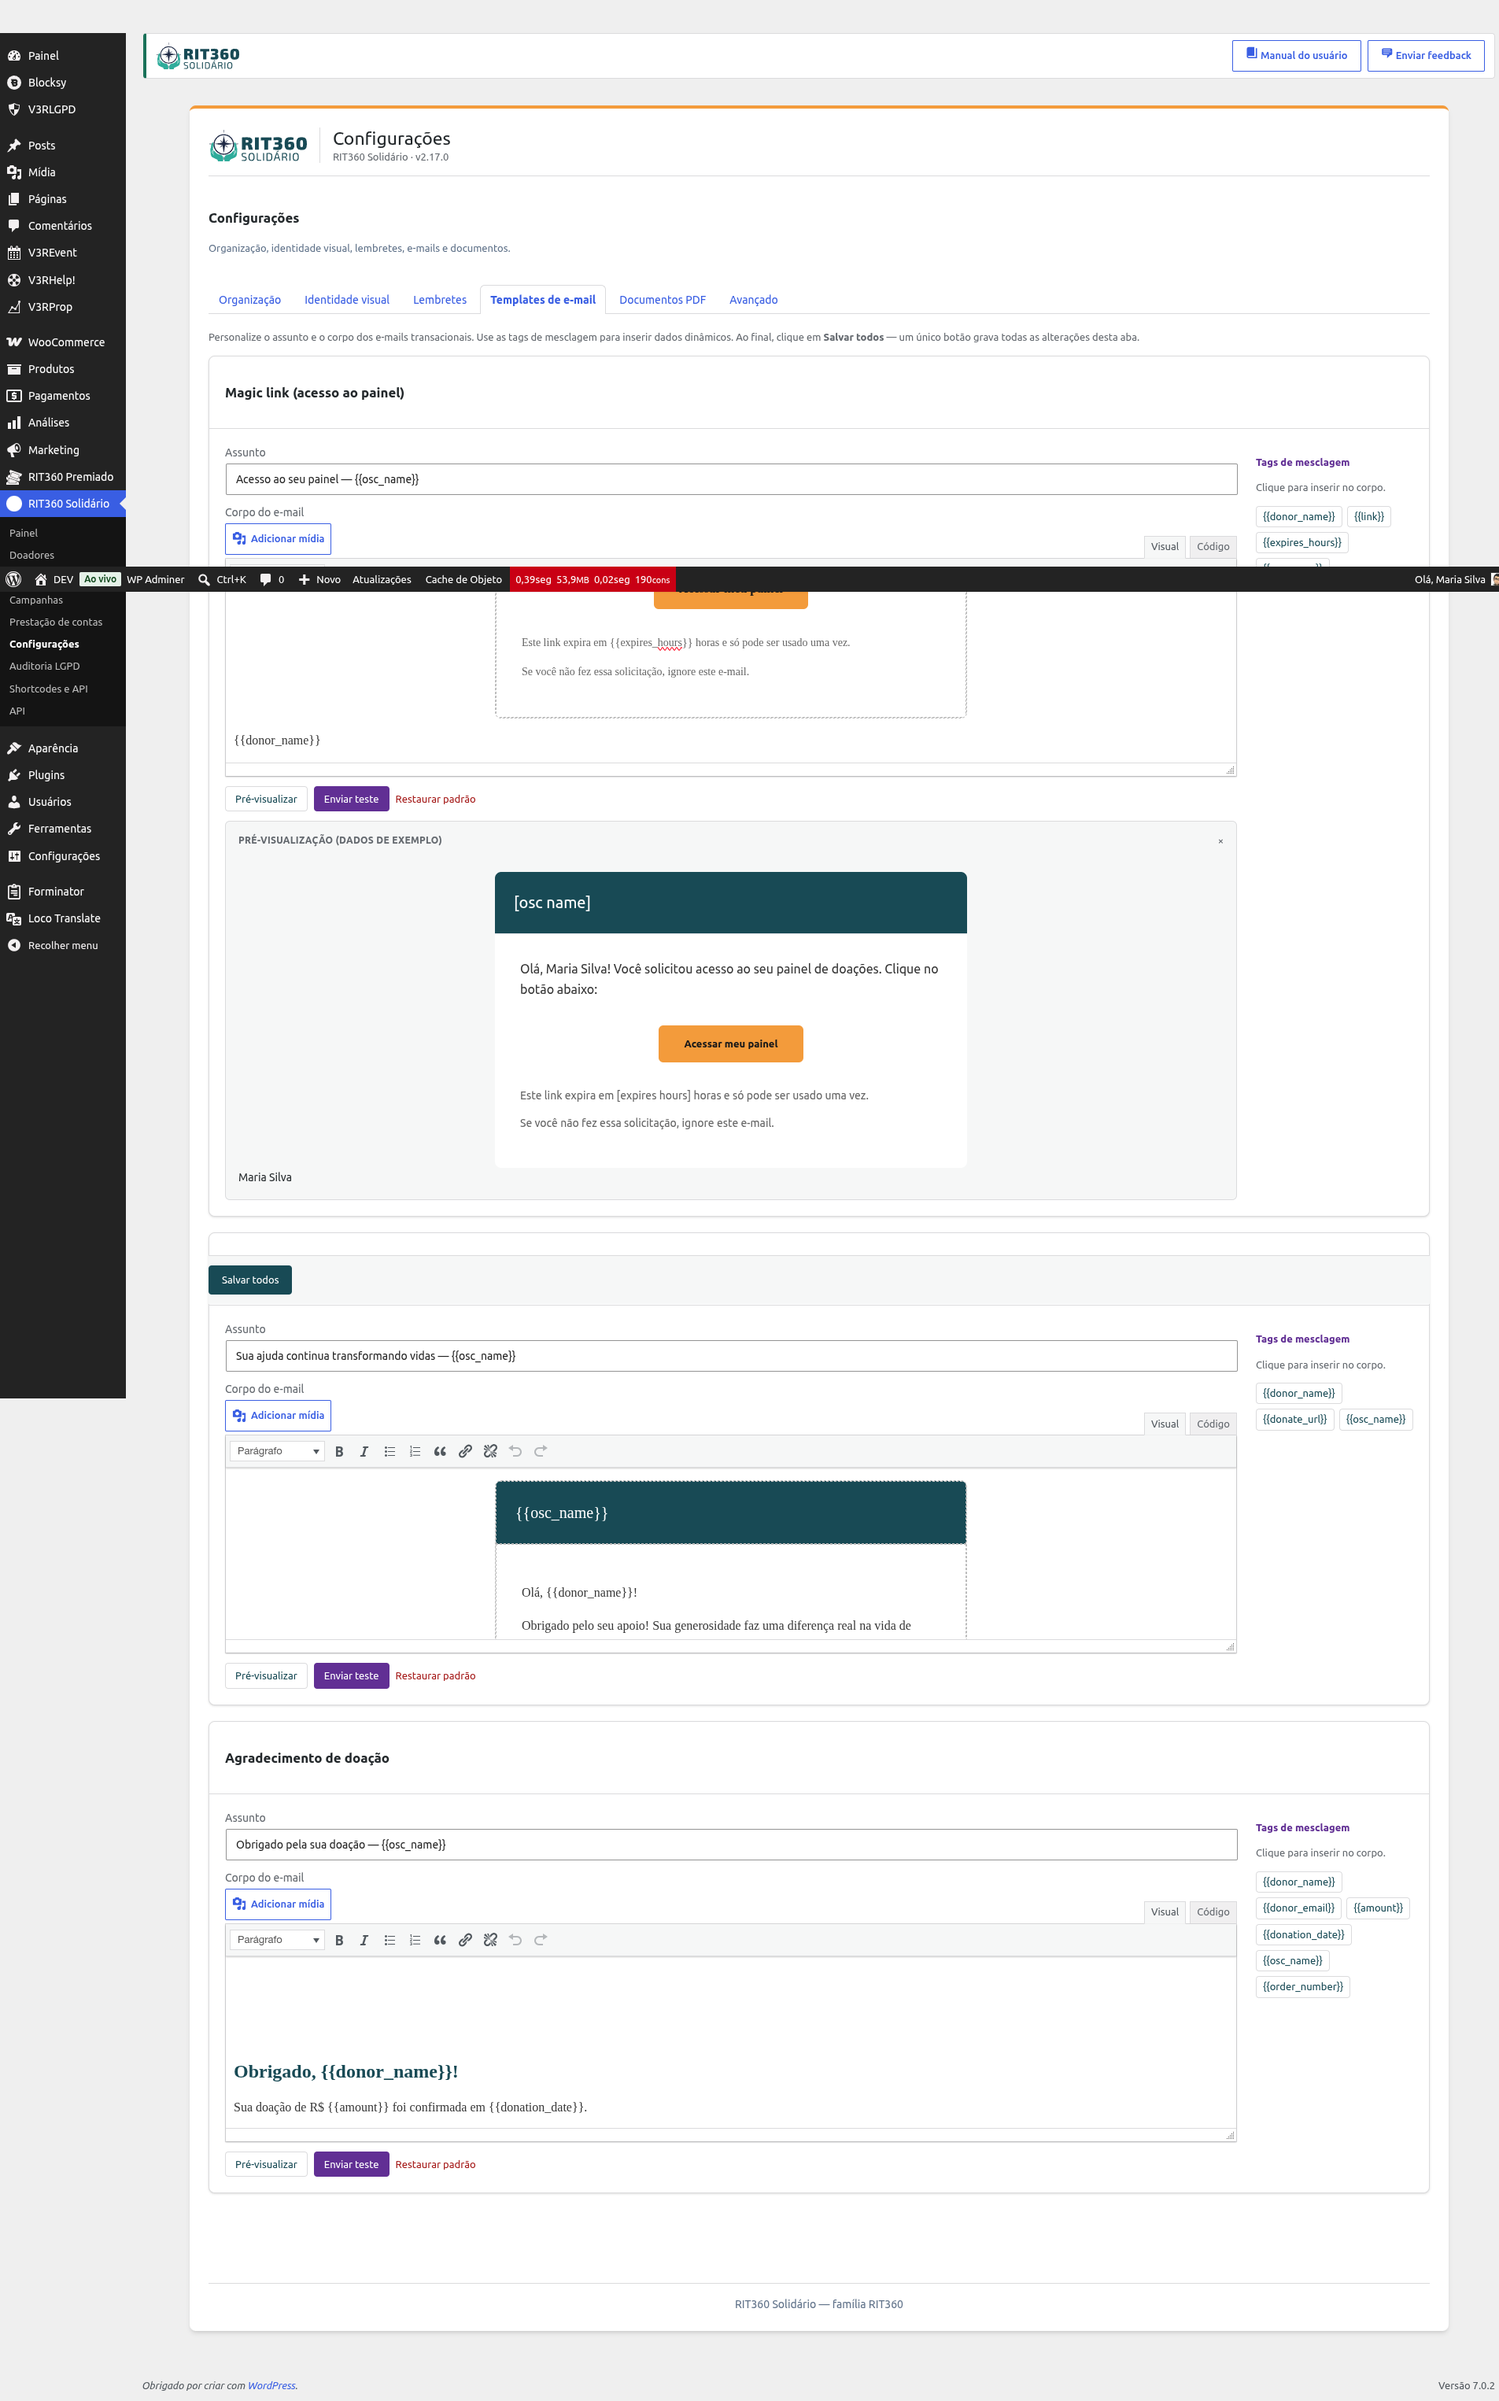
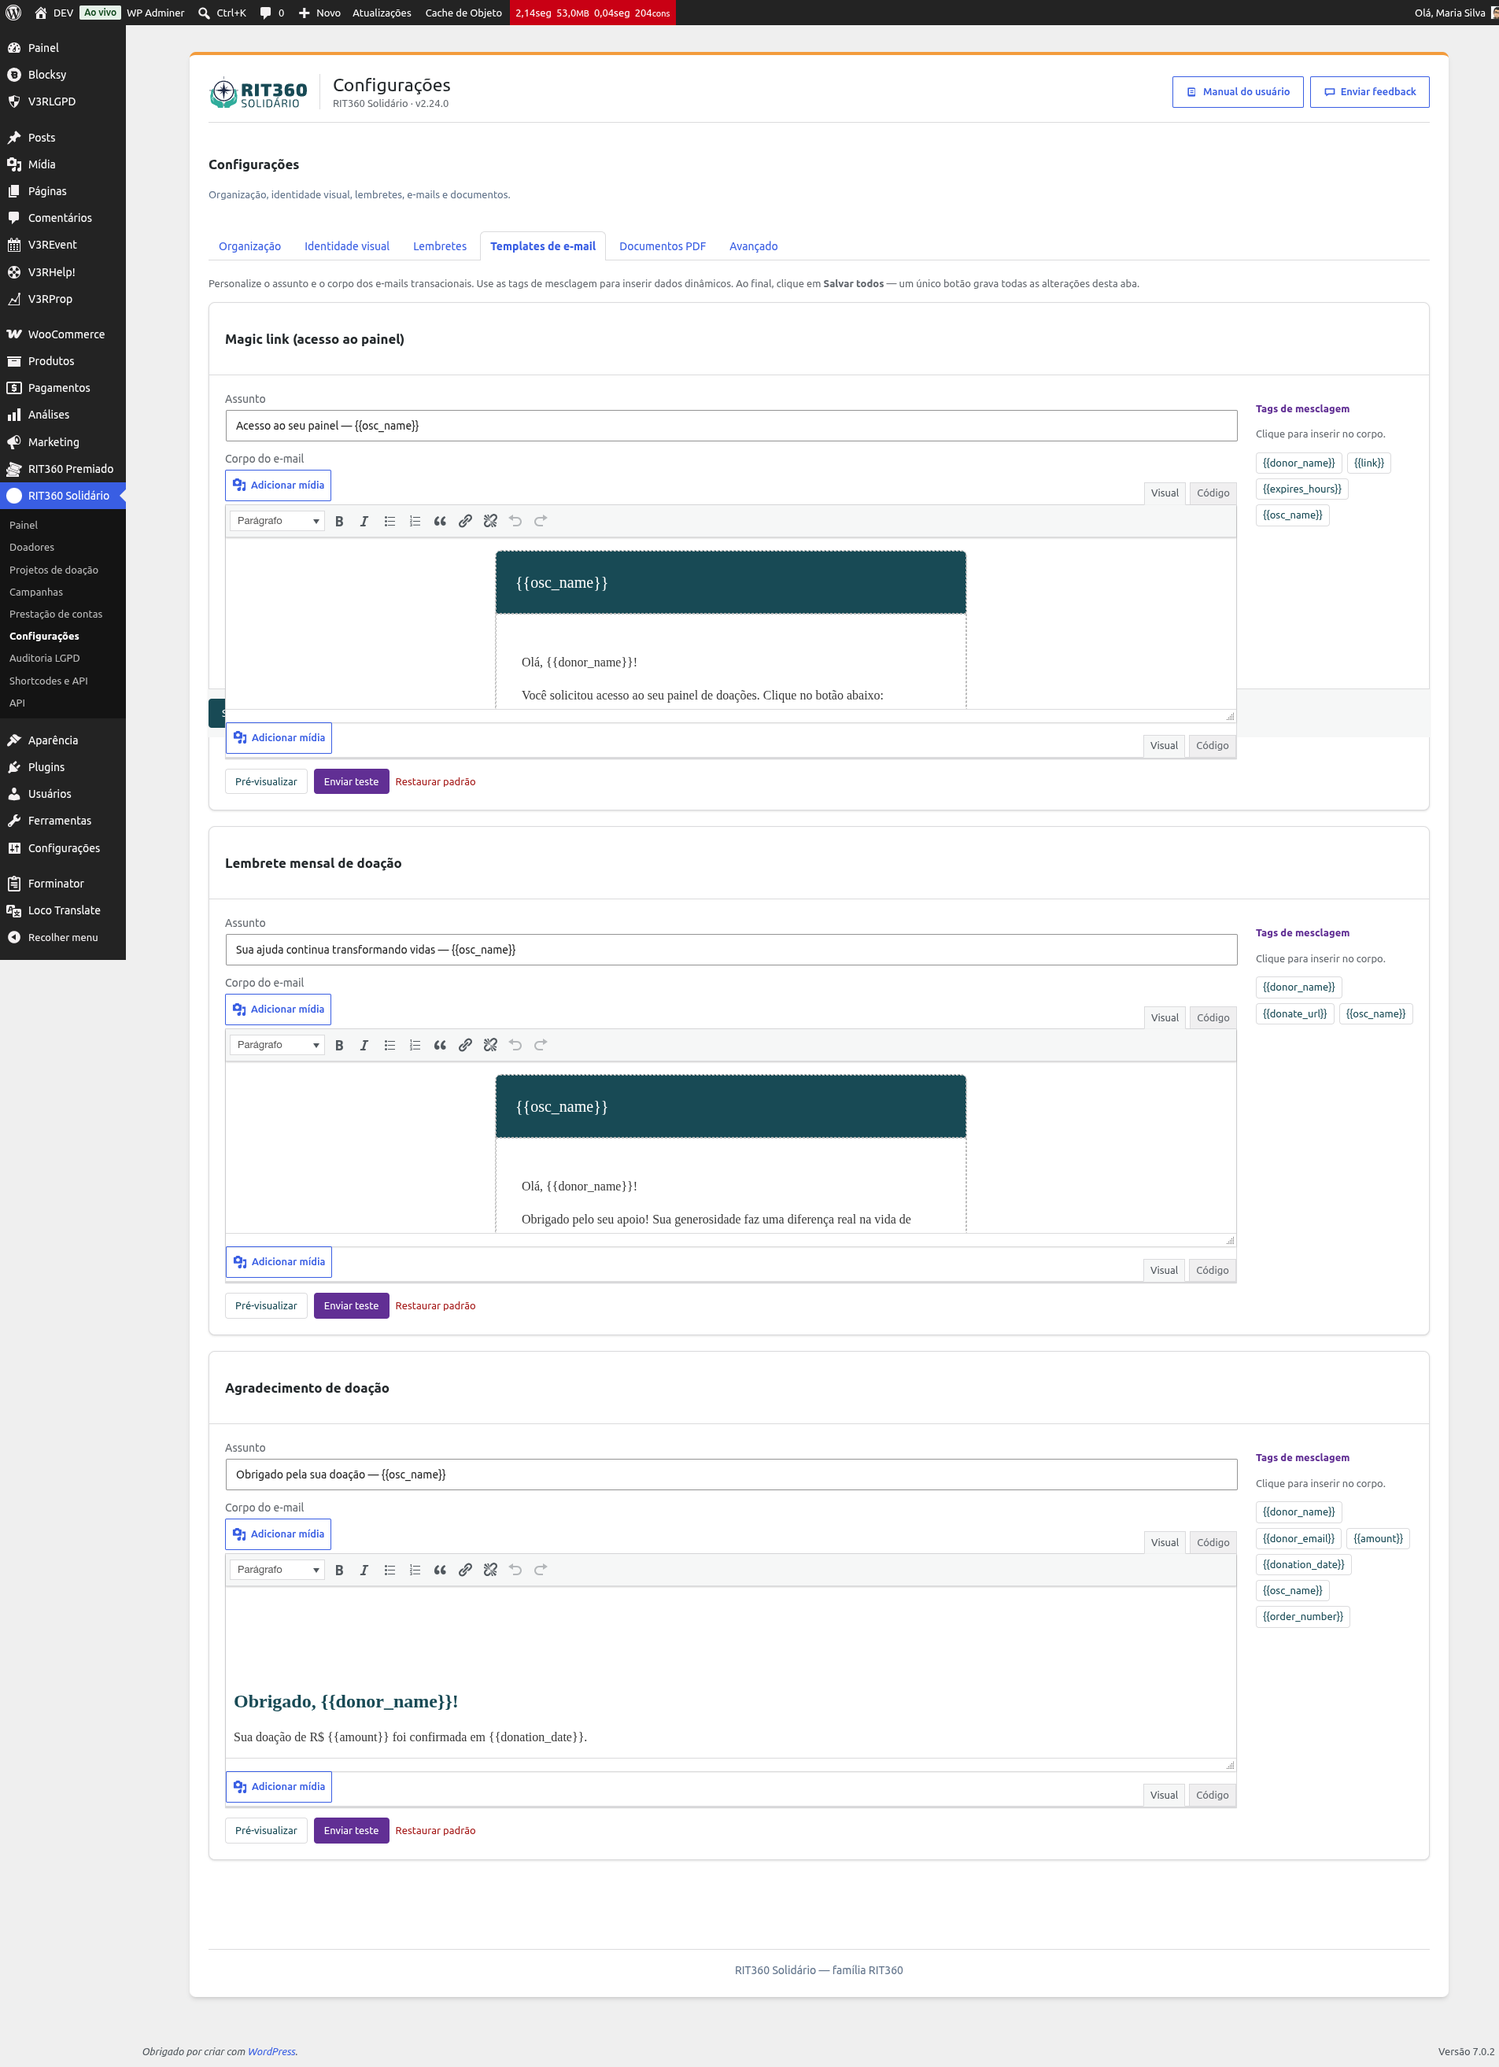
docs(manual): atualiza telas e textos para a UI React v2.24.0
- recaptura 16 telas de admin contra o dev-wp v2.24.0 (cabecalho React
  com selo de versao + botoes Manual/Feedback); nova api-chaves.png
  (estado Expirada, entrega de webhook failed com tooltip)
- doadores: coluna CNPJ no XLSX + aviso com contagem na manutencao (#51)
- api-integracoes: estado Expirada, avisos, tooltip de erro; escopo
  donations:write (reservado) na tabela (#54)
- prestacao-contas: texto de mascara honesto (dados mascarados por
  padrao, LGPD) (#52)
- primeiros-passos + modulos/index: cabecalho novo + modal Enviar feedback
- novidades: bloco 'Versoes 2.14 a 2.24'
- roteiro-prints: gotcha do selo de versao (recapturar admin a cada bump)

diff --git a/_manual/roteiro-prints.md b/_manual/roteiro-prints.md
@@ -1,8 +1,16 @@
-# Roteiro de capturas — Manual RIT360 Solidário (v2.6.1)
+# Roteiro de capturas — Manual RIT360 Solidário
 
-Ambiente: **dev-wp** (`http://localhost:3080/`), plugin 2.6.1, OSC de exemplo
-"Instituto Esperança", dados fictícios semeados. Viewport **1920×1080** em todas.
+Ambiente: **dev-wp** (`http://localhost:3080/`), OSC de exemplo "Instituto
+Esperança", dados fictícios semeados. Viewport **1920×1080** em todas.
 Destino dos arquivos: `manual/assets/img/`.
+
+> **Recaptura 2026-07-21 (plugin v2.24.0):** todas as telas de **admin** foram
+> refeitas contra a UI **React** (migração #18) — cada tela tem o cabeçalho com
+> logo + seção + "RIT360 Solidário · vX.Y.Z" e os botões "Manual do usuário"/
+> "Enviar feedback" no canto superior direito. **O selo de versão aparece em cada
+> print → recapturar TODO o admin a cada bump de versão.** As superfícies públicas
+> reusaram o CSS existente (visualmente idênticas). `api-chaves.png` passou a ser
+> capturada (estado "Expirada" + entrega de webhook "failed" com tooltip de erro).
 
 ## Regras
 - **Admin** (área `/wp-admin/`): capturar **logado** (a barra do WordPress pode
@@ -35,22 +43,21 @@ Destino dos arquivos: `manual/assets/img/`.
 | `produto-doacao.png` | editar produto 67 (`/wp-admin/post.php?post=67&action=edit`), aba "Configuração de Doação" | Campos: valores, valor livre, frase de impacto, vídeo |
 | `feedback-modal.png` | qualquer tela do plugin → clicar "Enviar feedback" | Modal de feedback |
 
-## API e integrações (v2.10–2.12) — prints opcionais, ainda NÃO capturados
+## API e integrações — `api-chaves.png` (capturada em v2.24.0)
 
-A página `modulos/api-integracoes.md` foi escrita sem prints obrigatórios (é referência
-técnica). Se quiser ilustrá-la depois, capturar no dev-wp, admin logado, viewport
-1920×1080, salvando em `manual/assets/img/` com estes nomes — e então referenciá-los na
-página e no front-matter `screenshots`:
+Rota: menu **RIT360 Solidário → Shortcodes e API → API** (submenu "API"). Página inteira,
+admin logado, 1920×1080. A tela agrupa numa só captura: **endereço base**, **Nova chave**
+(rótulo + escopos + validade), **Chaves** (com estados *Ativa*/*Expirada*/*Revogada*),
+**Novo destino** de webhook, **Webhooks** e **Últimas entregas** (com entrega *failed* +
+tooltip de erro). Referenciada em `modulos/api-integracoes.md` (front-matter `screenshots:
+[api-chaves]`).
+
+Prints ainda **opcionais** (não capturados; a página é referência técnica e já ilustra o
+essencial com `api-chaves.png`):
 
 | Arquivo (sugerido) | Rota / ação | Deve mostrar |
 |---|---|---|
-| `api-chaves.png` | **RIT360 Solidário → Shortcodes e API**, aba **API**, seção Chaves | Lista de chaves + botão "Nova chave" + seletor de escopos e validade |
 | `api-chave-criada.png` | após criar uma chave | Aviso "copie agora, aparece uma única vez" com a chave |
-| `api-webhooks.png` | mesma aba API, seção Webhooks | Form "Novo destino" (URL + eventos + incluir PII) + botão "Enviar teste" + log de entregas |
-
-> Confirmar com o Bruno a rota exata da aba API (submenu vs. aba dentro de
-> `rit360-solidario-shortcodes`) antes de capturar — a página usa a navegação por nome
-> de menu ("Shortcodes e API → aba API"), que não depende do query string.
 
 ## Front-end — deslogado (sem barra do WordPress)
 

diff --git a/modulos/api-integracoes.md b/modulos/api-integracoes.md
@@ -6,7 +6,7 @@ permalink: /modulos/api-integracoes/
 task: modulo-api-integracoes
 role: admin
 routes: ["#/wp-admin/admin.php?page=rit360-solidario-shortcodes"]
-screenshots: []
+screenshots: [api-chaves]
 source_docs: [PRODUCT.md, CHANGELOG.md]
 last_verified: 2026-07-21
 status: publicado
@@ -48,6 +48,8 @@ Por exemplo, para consultar os números agregados, o endereço completo é
 Nenhuma chamada à API funciona sem uma **chave de integração**. A chave identifica quem
 está acessando e **o que essa integração pode fazer** (os escopos).
 
+![Chaves de integração e webhooks na aba API](/assets/img/api-chaves.png)
+
 ### Criar uma chave
 
 1. Abra **RIT360 Solidário → Shortcodes e API** e vá à aba **API**.
@@ -79,6 +81,19 @@ Na mesma aba **API**, cada chave tem o botão **Revogar**. Ao revogar, ela para 
 funcionar **na hora** — qualquer integração que a usava deixa de ter acesso. Revogue as
 chaves que você não usa mais, ou qualquer chave que possa ter vazado.
 
+Cada ação de chave (criar, revogar) mostra um **aviso de confirmação** assim que é
+concluída.
+
+### Estado da chave
+
+Na lista, cada chave exibe um estado:
+
+- **Ativa** — funcionando normalmente.
+- **Expirada** — passou da data de validade e **não autentica mais**. A chave aparece
+  marcada como *Expirada* (não some da lista) para você identificar e substituir: crie
+  uma nova e atualize a integração que a usava.
+- **Revogada** — desativada manualmente por você.
+
 ---
 
 ## Escopos
@@ -94,6 +109,7 @@ escrever. Marque só o necessário — é o princípio do menor privilégio.
 | `donors:read_pii` | Ler os **dados pessoais completos** dos doadores (nome, e-mail, documento). **Sensível.** |
 | `campaigns:write` | **Criar e editar campanhas**. |
 | `projects:write` | **Atualizar projetos** (meta, prazo, campanha). |
+| `donations:write` | **Reservado** para registrar doações via API. Aparece na tela, mas ainda **não há endpoint público** para ele — deixe desmarcado até que uma integração de escrita de doações seja disponibilizada. |
 
 > ⚠ **Atenção — `donors:read_pii` é sensível e auditado**
 >
@@ -273,9 +289,13 @@ compara com o valor recebido — se baterem, a mensagem é legítima.
 - **Reenvio automático:** se o destino não responder com sucesso, o plugin **tenta de
   novo** automaticamente por algumas vezes.
 - **Log de entregas:** cada destino tem um histórico de envios (data, evento, resposta),
-  para você ver o que chegou e o que falhou.
+  para você ver o que chegou e o que falhou. Nas entregas que **falharam**, um ícone de
+  informação (ⓘ) mostra o **último erro** ao passar o mouse — ajuda a diagnosticar (URL
+  errada, destino fora do ar, assinatura recusada) sem sair da tela.
 - **Enviar teste:** o botão **Enviar teste** dispara um evento de exemplo para a URL,
   útil para conferir se o n8n está recebendo e validando a assinatura corretamente.
+- As ações de webhook (cadastrar destino, enviar teste) também mostram um **aviso de
+  confirmação** ao concluir.
 
 ---
 

diff --git a/novidades.md b/novidades.md
@@ -21,6 +21,38 @@ aparece em **Plugins**, na lista de plugins do WordPress.
 
 ---
 
+## Versões 2.14 a 2.24 — Painel com a cara da família RIT360
+
+As telas do plugin no painel administrativo foram **repaginadas**. O que você faz
+continua igual — mudou o visual, que ficou mais moderno e alinhado à família RIT360.
+
+- **Novo visual das telas.** Painel, doadores, projetos, campanhas, prestação de
+  contas, configurações, auditoria LGPD e shortcodes ganharam **cartões** com a cor
+  da marca e uma leitura mais limpa. As páginas públicas (formulário de doação,
+  listagens e portal do doador) continuam com a mesma aparência de sempre.
+- **Cabeçalho em todas as telas.** No topo de cada tela aparece a **logomarca**, o
+  nome da seção e a **versão instalada** (ex.: “RIT360 Solidário · v2.24.0”). No
+  canto direito ficam os botões **Manual do usuário** e **Enviar feedback** — antes
+  numa barra separada, agora integrados ao cabeçalho.
+- **“Enviar feedback” numa janela.** O botão abre uma janela onde você relata um
+  problema, manda uma sugestão, deixa um elogio ou registra um depoimento, com a
+  opção de anexar imagens ou PDF. É o canal direto com a equipe do produto.
+
+**Melhorias pontuais desta leva (v2.24):**
+
+- **Doadores:** a planilha (XLSX) de doadores passou a incluir a coluna **CNPJ** dos
+  doadores pessoa jurídica; e as ações de manutenção (*reprocessar recibos*,
+  *atribuir projeto*) agora mostram um **aviso com a contagem** do que foi feito.
+- **API e integrações:** uma chave vencida agora aparece corretamente como
+  **“Expirada”**; as ações de chave e de webhook mostram **aviso de sucesso**; e as
+  entregas de webhook que falharam trazem o **último erro** num ícone de informação
+  (ⓘ), para diagnosticar sem sair da tela.
+- **Prestação de contas:** o texto perto dos botões de exportar ficou mais claro —
+  as exportações (CSV/XLSX) vêm com os **dados pessoais mascarados por padrão
+  (LGPD)**.
+
+---
+
 ## Versões 2.13 — Mais privacidade para o doador (LGPD)
 
 Melhorias de transparência e de proteção de dados. A maioria funciona **de

diff --git a/primeiros-passos.md b/primeiros-passos.md
@@ -5,9 +5,9 @@ permalink: /primeiros-passos/
 task: primeiros-passos
 role: admin
 routes: ["#/wp-admin/admin.php?page=bs-setup", "#/wp-admin/admin.php?page=rit360-solidario"]
-screenshots: [setup-wizard, painel, doe-pagina]
+screenshots: [setup-wizard, painel, doe-pagina, feedback-modal]
 source_docs: [PRD#5.4, PRODUCT.md]
-last_verified: 2026-07-15
+last_verified: 2026-07-21
 status: publicado
 ---
 
@@ -35,6 +35,24 @@ Antes de começar, vale entender os dois papéis:
 > dispensar senha e cadastro, o RIT360 Solidário remove a maior fonte de
 > desistência — e ainda evita guardar mais dados pessoais do que o necessário
 > (um princípio da LGPD).
+
+## O cabeçalho das telas do plugin
+
+Todas as telas do RIT360 Solidário no painel administrativo têm um **cabeçalho**
+no topo, com a logomarca à esquerda e, logo abaixo do título, o nome da seção e a
+**versão instalada** (por exemplo, “RIT360 Solidário · v2.24.0”). É o jeito rápido
+de conferir qual versão você está usando.
+
+No canto superior direito ficam dois botões, presentes em **qualquer tela** do
+plugin:
+
+- **Manual do usuário** — abre este manual on-line.
+- **Enviar feedback** — abre uma janela para você relatar um problema, mandar uma
+  sugestão, deixar um elogio ou registrar um depoimento. Escolha o tipo, escreva a
+  mensagem (seu e-mail já vem preenchido para retorno) e, se quiser, anexe imagens
+  ou um PDF. É o canal direto para falar com a equipe do produto.
+
+![A janela “Enviar feedback”](/assets/img/feedback-modal.png)
 
 ## 1. Requisitos
 

diff --git a/modulos/index.md b/modulos/index.md
@@ -32,10 +32,12 @@ painel do WordPress; os fluxos do doador acontecem no site público.
 - [**Shortcodes**](/modulos/shortcodes/) — para montar páginas no seu construtor.
 - [**API e integrações**](/modulos/api-integracoes/) — conecte o plugin ao n8n e outros sistemas (API REST e webhooks).
 
-## A barra da família RIT360
+## O cabeçalho das telas
 
-No topo de todas as telas do plugin há uma barra com o logo, o link para este
-**Manual do usuário** e o botão **Enviar feedback** — por ele você fala direto com
-a equipe (relatar um problema, sugerir uma melhoria ou deixar um elogio).
+No topo de todas as telas do plugin há um **cabeçalho** com a logomarca, o nome da
+seção e a **versão instalada**. No canto direito ficam o link para este **Manual do
+usuário** e o botão **Enviar feedback** — por ele você fala direto com a equipe
+(relatar um problema, sugerir uma melhoria, deixar um elogio ou registrar um
+depoimento). Veja os detalhes em [Primeiros passos](/primeiros-passos/#o-cabecalho-das-telas-do-plugin).
 
 ![Modal de envio de feedback](/assets/img/feedback-modal.png)

diff --git a/modulos/doadores.md b/modulos/doadores.md
@@ -52,12 +52,15 @@ Na parte inferior da tela:
 
 - **Exportar relatório CSV** por intervalo de datas.
 - **Exportar doadores (XLSX)** — respeita a busca ativa, inclui anonimizados e traz
-  CPF/CEP/telefone como texto (para não “quebrar” na planilha).
+  CPF, **CNPJ** (para doadores pessoa jurídica), CEP e telefone como texto (para não
+  “quebrar” na planilha).
 - **Manutenção**: *reprocessar recibos pendentes* e *atribuir projeto às doações
   antigas* (útil para doações anteriores à organização por projetos). O *reprocessar
   recibos pendentes* também **recupera doações pagas que ficaram sem doador** (por
   exemplo, se o meio de pagamento não registrou o doador na hora): ele cria o doador
-  e gera o recibo faltante.
+  e gera o recibo faltante. Ao terminar, cada ação de manutenção mostra um **aviso com
+  a contagem** do que foi processado — você sabe na hora quantos recibos foram
+  reprocessados ou quantas doações foram atribuídas.
 
 > ⚠ **Atenção — dados pessoais**
 >

diff --git a/modulos/prestacao-contas.md b/modulos/prestacao-contas.md
@@ -41,9 +41,9 @@ livre** (de/até) ou o **exercício** (ano civil). Todo o conteúdo da tela se a
 
 > ⚠ **Atenção — máscara de dados**
 >
-> As exportações CSV/XLSX vêm com os **dados pessoais mascarados por padrão**.
-> Gerar uma versão **sem máscara** exige uma ação explícita sua — use apenas
-> quando for realmente necessário e trate o arquivo com cuidado.
+> As exportações (CSV/XLSX) vêm com os **dados pessoais mascarados, por padrão
+> (LGPD)**. Ainda assim, trate os arquivos com cuidado e compartilhe apenas com
+> quem precisa.
 
 > 💡 **Você sabia?**
 >
